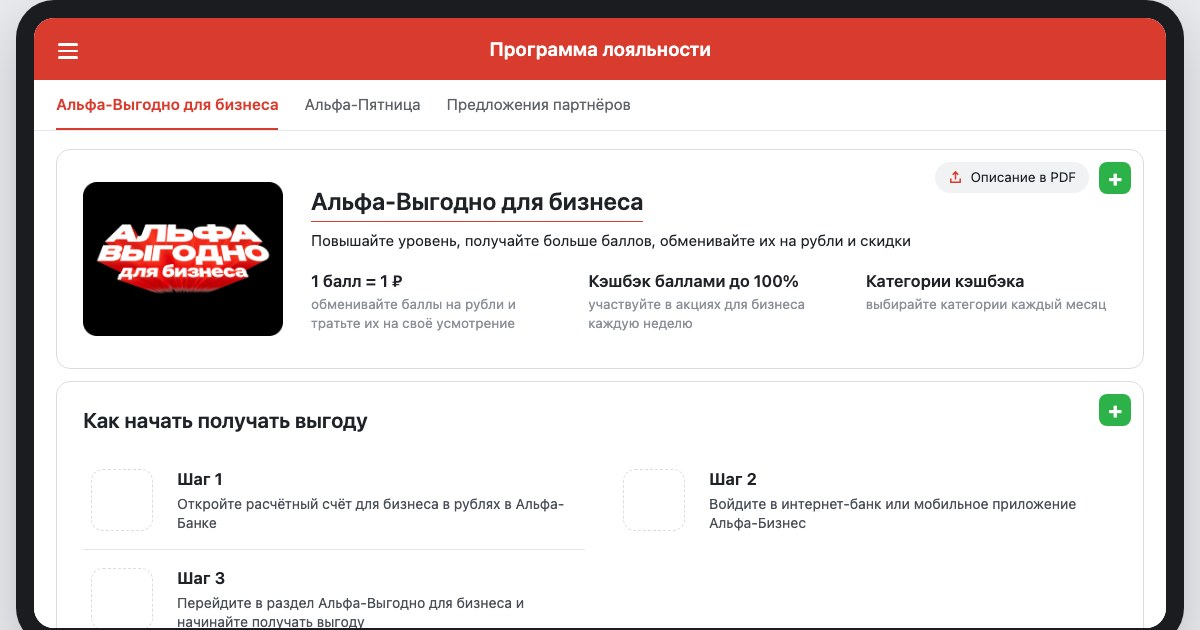
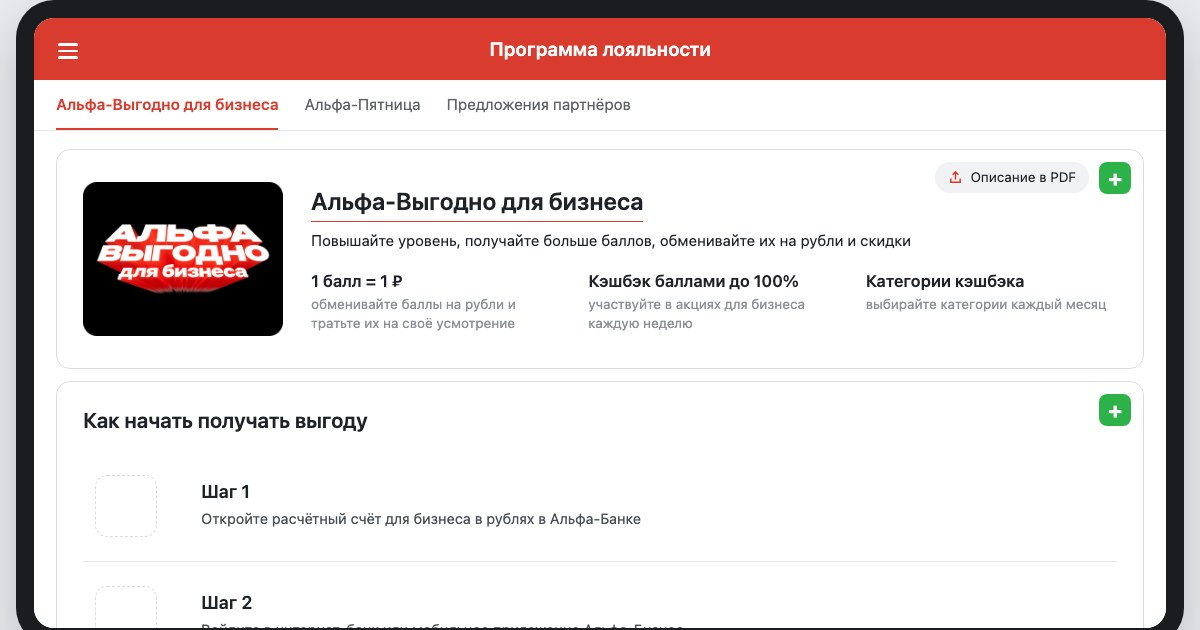
Прототип v0.5: шаги «Как начать» столбиком, тип 4

Changed region(s): [[0.1542, 0.9048, 0.5858, 1.0], [0.1542, 0.754, 0.555, 0.8444], [0.5858, 0.754, 0.8942, 0.8444]]

diff --git a/index.html b/index.html
@@ -214,8 +214,8 @@ const t3 = b => card(3, `<div class="t3"><div><h4>${b.title}</h4>
   ${b.bullets?`<ul class="dots">${b.bullets.map(s=>`<li>${s}</li>`).join('')}</ul>`:''}</div>
   <div class="img"><img src="${A(b.img)}" alt=""></div></div>`);
 
-const t4 = b => card(4, `<div class="t4"><h3 class="bt">${b.title}</h3>${b.items.map(i=>`<div class="row"><div class="img"><img src="${A(i.img)}" alt=""></div>
-  <div><h5>${i.title}</h5><p>${i.text}</p><strong>${i.bold}</strong></div></div>`).join('')}</div>`);
+const t4 = b => card(4, `<div class="t4"><h3 class="bt">${b.title}</h3>${b.items.map(i=>`<div class="row"><div class="img">${i.img?`<img src="${A(i.img)}" alt="">`:'<div class="ph"></div>'}</div>
+  <div><h5>${i.title}</h5><p>${i.text}</p>${i.bold?`<strong>${i.bold}</strong>`:''}</div></div>`).join('')}</div>`);
 
 const t5 = b => card(5, `<div class="t5"><h3 class="bt">${b.title}</h3><div class="grid">${b.items.map(i=>`<div class="it"><div class="img">${i.img?`<img src="${A(i.img)}" alt="">`:'<div class="ph"></div>'}</div>
   <div><h5>${i.title}</h5><p>${i.text}</p></div></div>`).join('')}</div></div>`);
@@ -228,7 +228,7 @@ const t7 = b => card(7, `<div class="t7"><h4>Частые вопросы</h4>${b
 const SITE = (path, text) => `<a href="https://alfabank.ru/sme/loyalty/${path}" target="_blank" rel="noopener">${text}</a>`;
 const PL_HERO = {img:'pl-hero-logo-plate', title:'Альфа-Выгодно для бизнеса', sub:'Повышайте уровень, получайте больше баллов, обменивайте их на рубли и скидки', pdf:true,
   facts:[['1 балл = 1 ₽','обменивайте баллы на рубли и тратьте их на своё усмотрение'],['Кэшбэк баллами до 100%','участвуйте в акциях для бизнеса каждую неделю'],['Категории кэшбэка','выбирайте категории каждый месяц']]};
-/* тип 5 вместо типа 3 (встреча 23.10): шаг стал заголовком пункта, картинки к шагам подбираем */
+/* тип 4 вместо типа 3: шаг стал заголовком пункта, список столбиком (тип 5 по два в ряд давал 2+1), иконки к шагам подбираем */
 const PL_START = {title:'Как начать получать выгоду', items:[
   {title:'Шаг 1',text:'Откройте расчётный счёт для бизнеса в рублях в Альфа-Банке'},
   {title:'Шаг 2',text:'Войдите в интернет-банк или мобильное приложение Альфа-Бизнес'},
@@ -284,7 +284,7 @@ const PT_FAQ = {qa:[
   ['Когда я получу кэшбэк или скидку?','Скидка применяется сразу при оплате у партнёра. Кэшбэк начисляется после выполнения условий предложения. Точные сроки указаны в карточке предложения и правилах.'],
   ['Что делать, если скидка или кэшбэк не пришли?','Проверьте, что выполнили все условия из карточки: минимальная сумма, сроки, активация промокода. Учтите срок начисления, кэшбэк приходит не всегда мгновенно. Если срок прошёл, а выгоды нет, напишите в поддержку Альфа-Бизнес в чате приложения или позвоните по телефону +7 495 755 58 58. Укажите предложение и дату покупки, поможем разобраться.']]};
 
-const TAB_PL = () => [t1(PL_HERO), t5(PL_START), t1(PL_LEVELS), ...PL_TABLES.map(t6), t5(PL_EARN), t5(PL_SPEND), t7(PL_FAQ)].join('');
+const TAB_PL = () => [t1(PL_HERO), t4(PL_START), t1(PL_LEVELS), ...PL_TABLES.map(t6), t5(PL_EARN), t5(PL_SPEND), t7(PL_FAQ)].join('');
 const TAB_FR = () => [t1(FR_HERO), t3(FR_HOW), t2(FR_QR), t5(FR_WHY), t7(FR_FAQ)].join('');
 const TAB_PT = () => [t1(PT_HERO), t3(PT_CATS), t4(PT_POP), t2(PT_QR), t3(PT_HOW), t7(PT_FAQ)].join('');
 /* временный вариант (вкладка в РКО) снят 23.10: сразу делаем раздел, старую вкладку убираем в день запуска */
